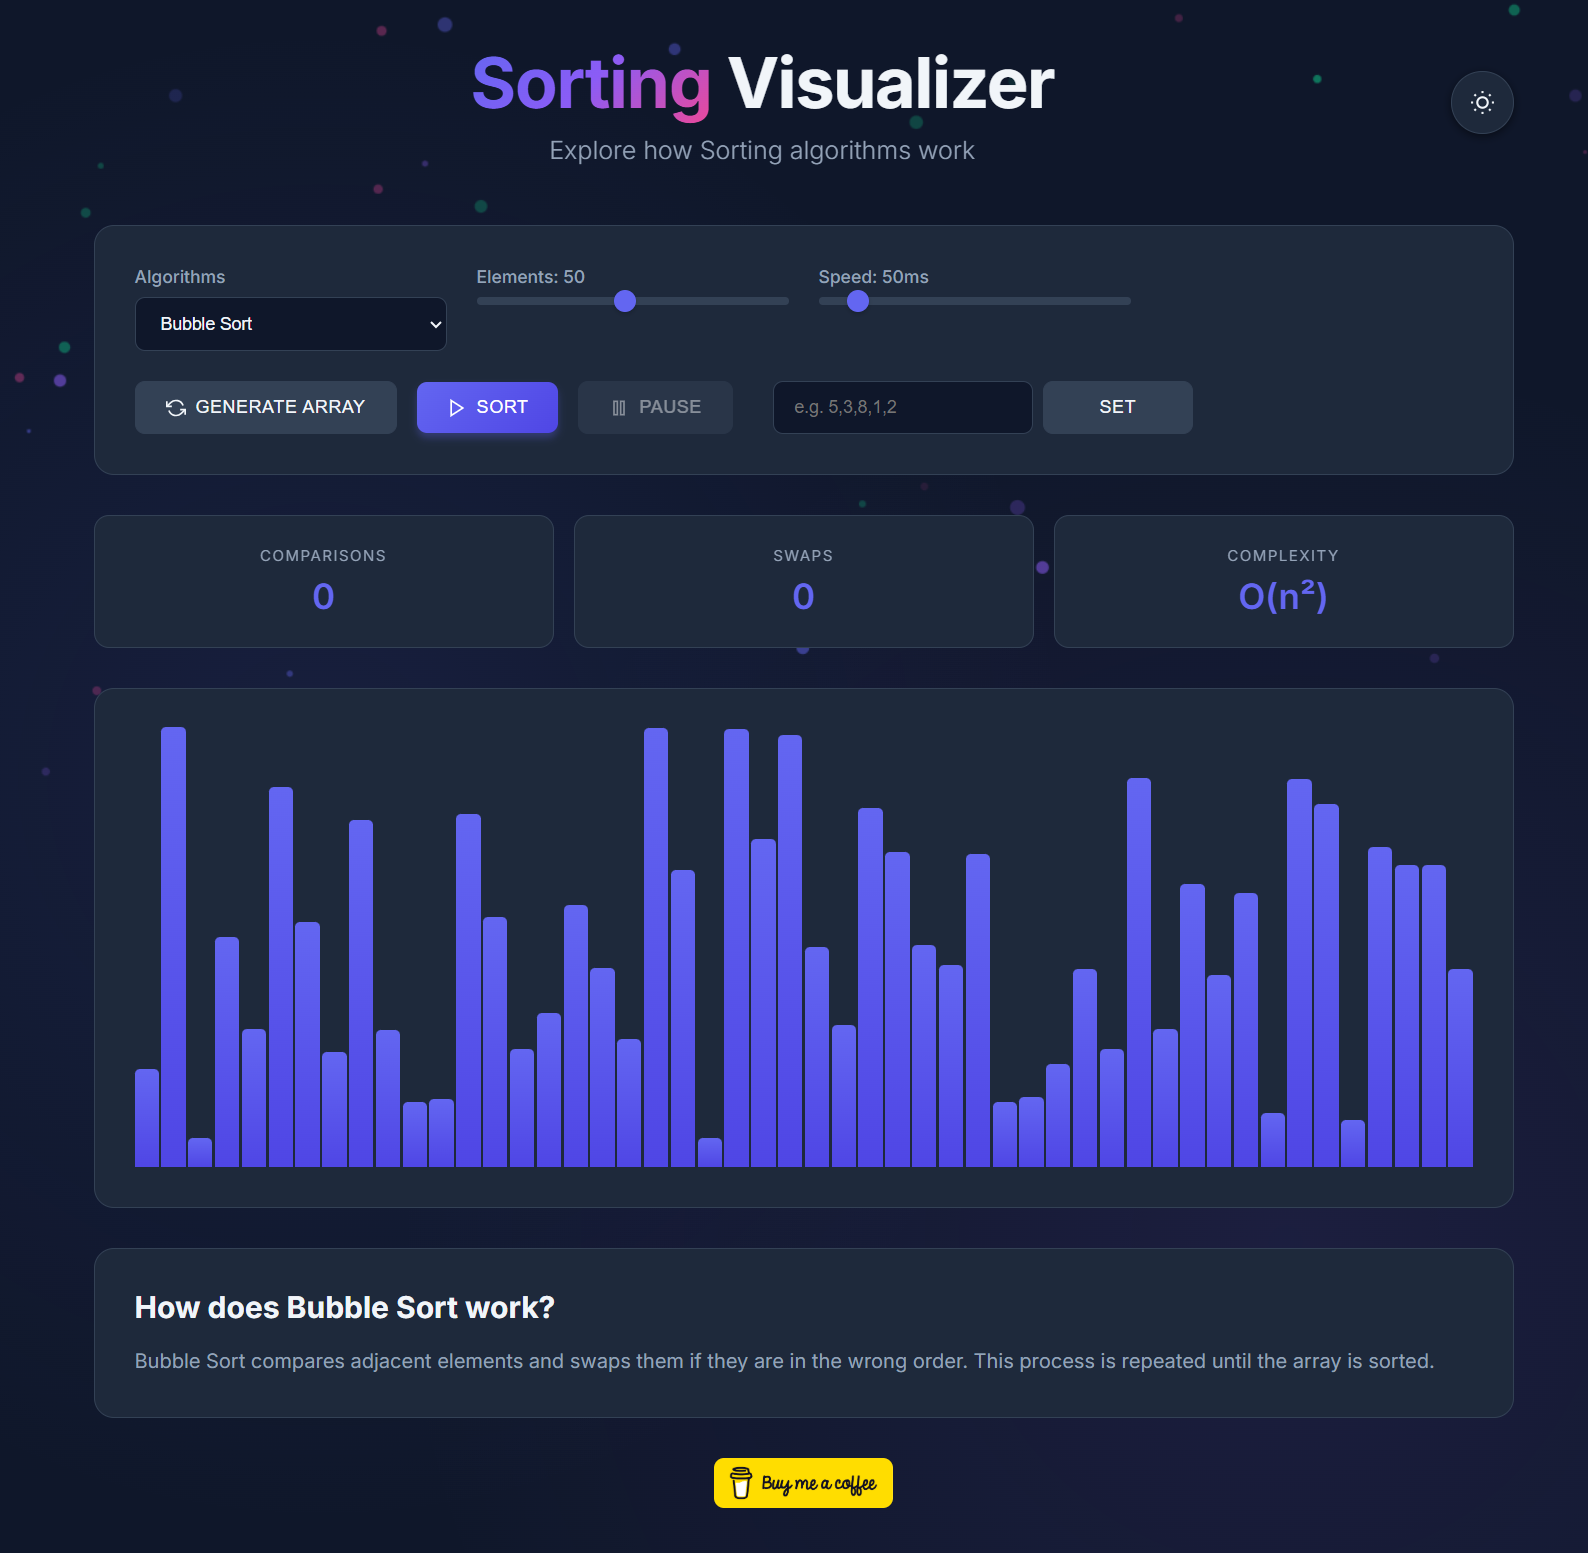
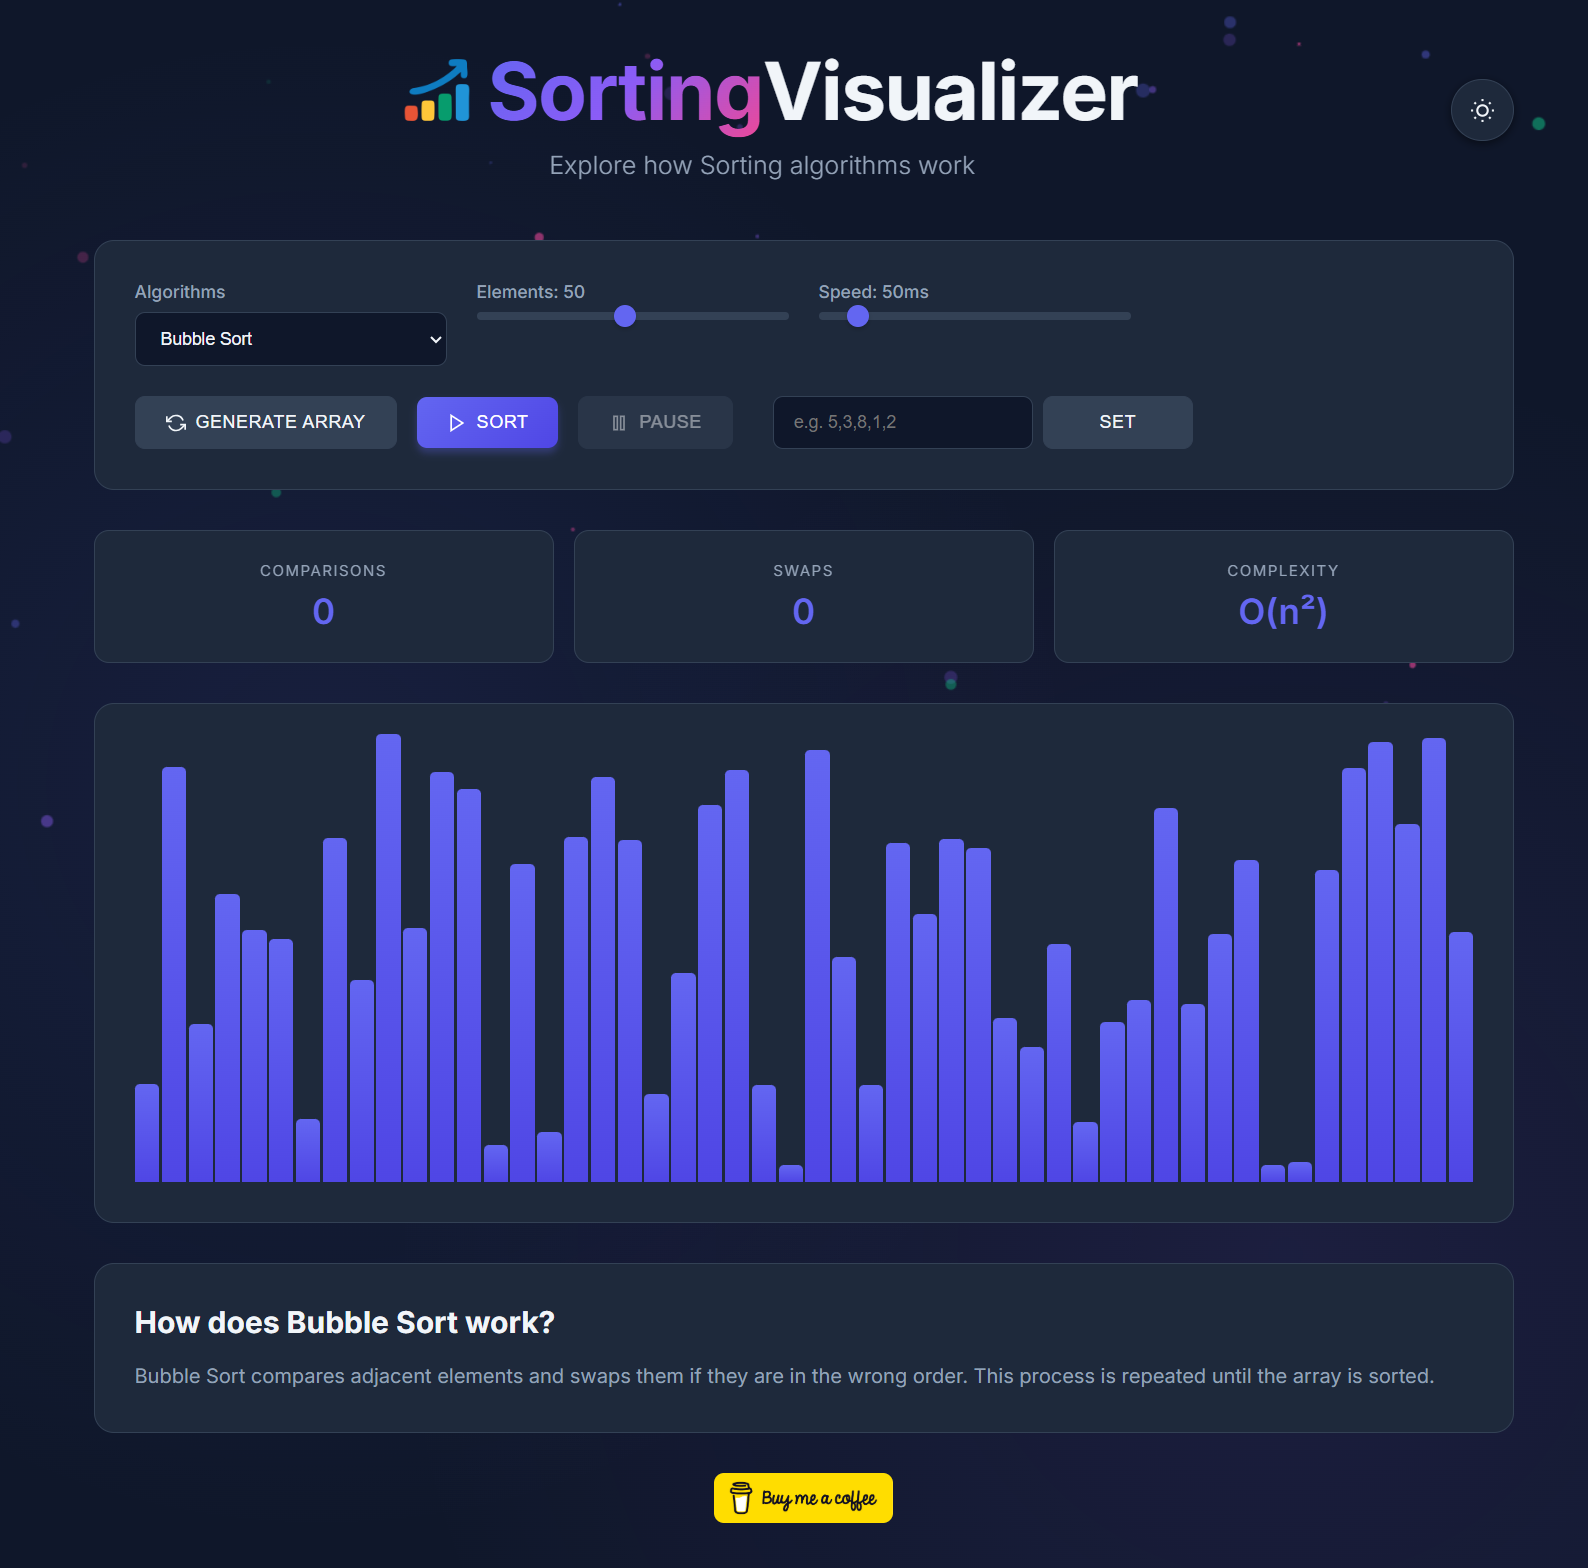
UI Fix & Assets

diff --git a/style.css b/style.css
@@ -84,11 +84,28 @@ header {
     min-width: 300px;
 }
 
+.logo {
+    width: 80px;
+    height: 80px;
+    object-fit: contain;
+}
+
+@media (max-width: 600px) {
+    .logo {
+        width: 30px;
+        height: 30px;
+    }
+}
+
 .title {
-    font-size: 3.5rem;
+    font-size: 4rem;
     font-weight: 700;
     margin-bottom: 0.5rem;
     letter-spacing: -0.02em;
+    display: flex;
+    align-items: center;
+    justify-content: center; 
+    text-align: center;
 }
 
 .title-gradient {
@@ -108,6 +125,7 @@ header {
     font-size: 1.25rem;
     color: var(--text-secondary);
     font-weight: 300;
+    text-align: center;
 }
 
 .theme-toggle {

diff --git a/index.html b/index.html
@@ -15,7 +15,8 @@
             <div class="header-content">
                 <div class="title-section">
                     <h1 class="title">
-                        <span class="title-gradient">Sorting</span> Visualizer
+                        <img src="./logo.png" alt="SortTrack Logo" class="logo" />
+                        <span class="title-gradient">Sorting </span> Visualizer
                     </h1>
                     <p class="subtitle">Explore how Sorting algorithms work</p>
                 </div>
